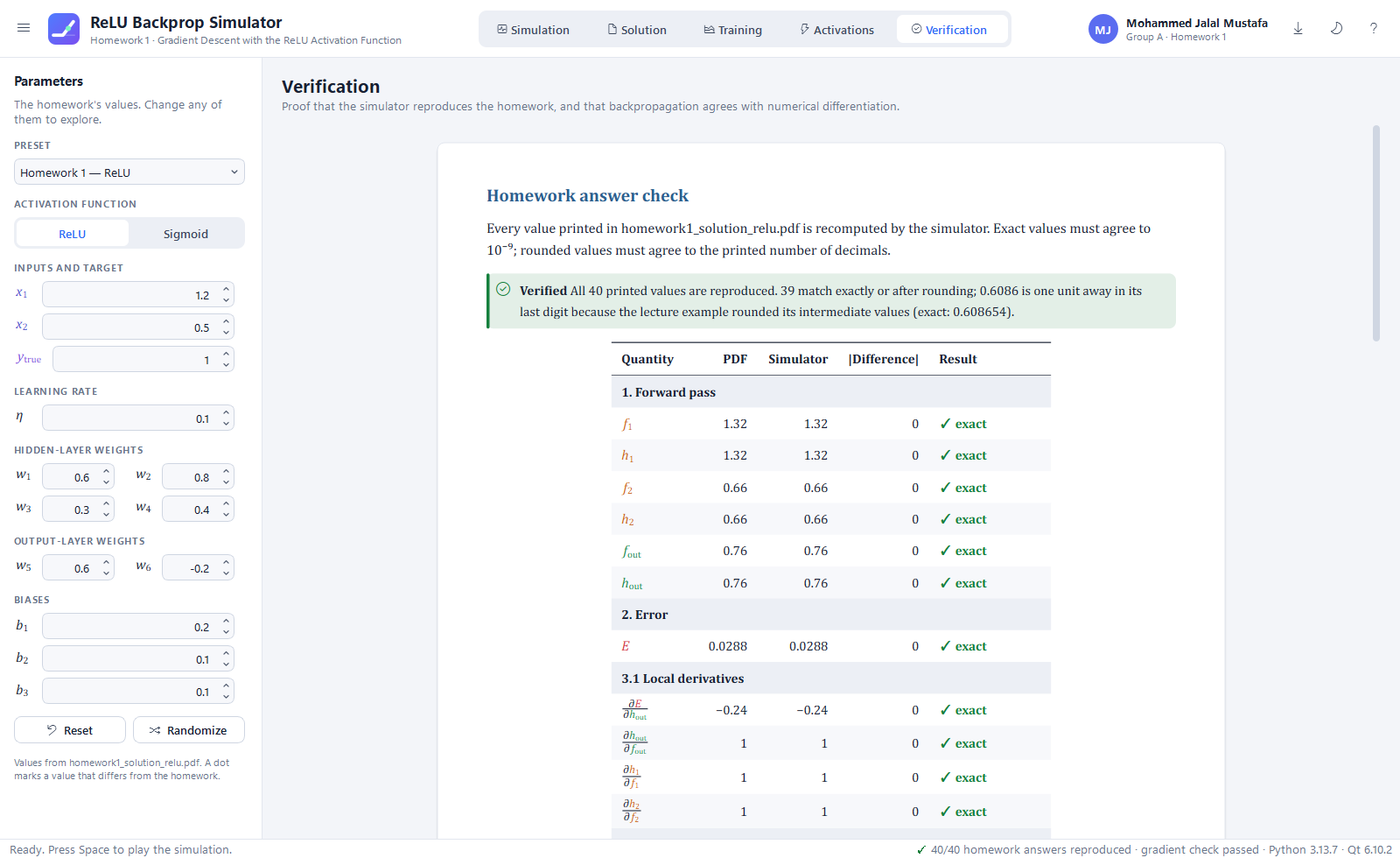
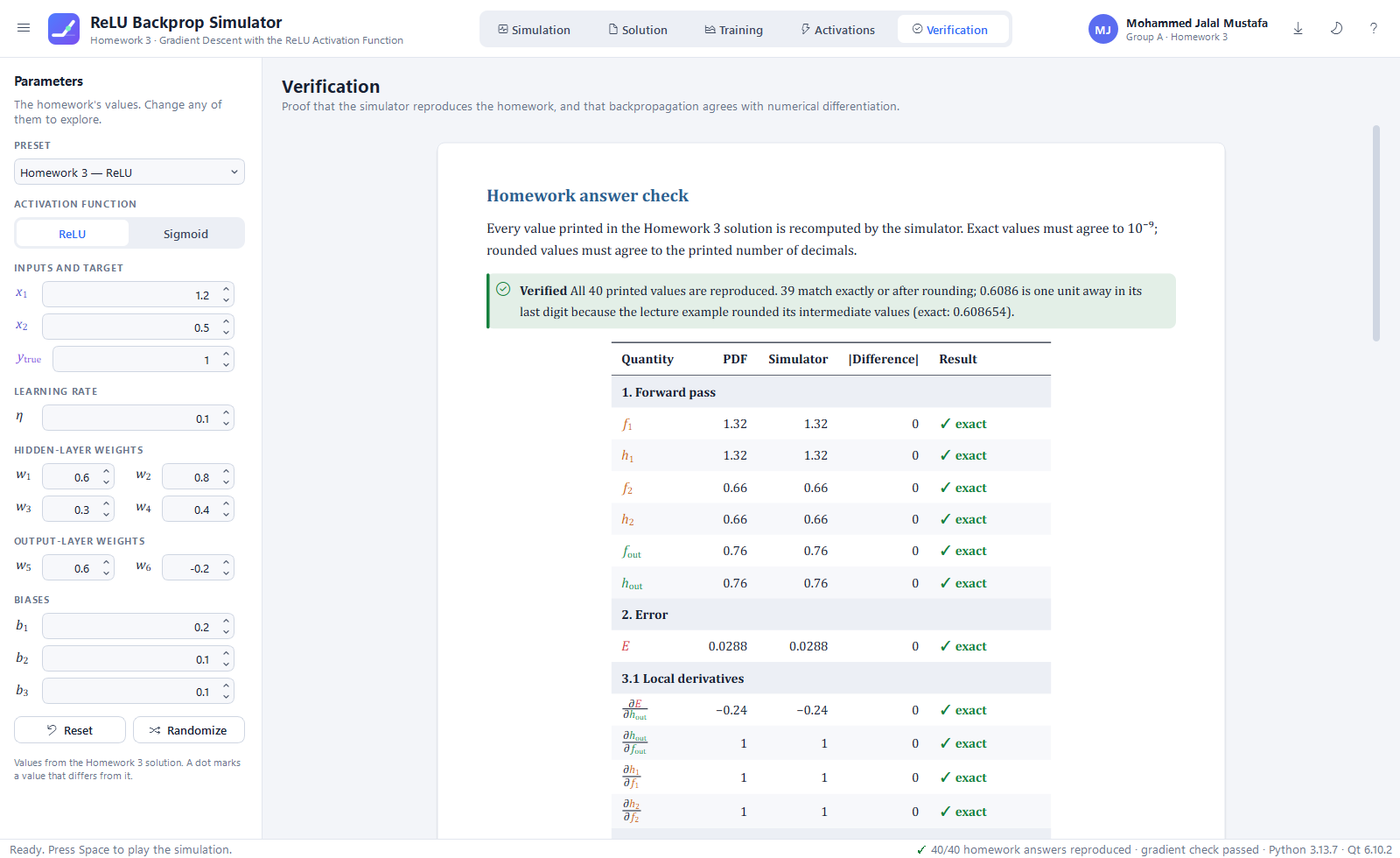
Correct the homework number: Homework 3
The app, the worked solution, the PDF/PNG/CSV exports, the README, the screenshots and the release notes now say Homework 3.

diff --git a/relu_sim/ui/main_window.py b/relu_sim/ui/main_window.py
@@ -74,7 +74,7 @@ class MainWindow(QMainWindow):
     def __init__(self, state: AppState):
         super().__init__()
         self.state = state
-        # Qt appends the application name: "Homework 1 · Mohammed Jalal Mustafa - ReLU Backprop Simulator"
+        # Qt appends the application name: "Homework 3 · Mohammed Jalal Mustafa - ReLU Backprop Simulator"
         self.setWindowTitle(f"{homework.TITLE} · {homework.STUDENT.name}")
         self.setWindowIcon(app_icon())
         self.setMinimumSize(1240, 760)
@@ -324,7 +324,7 @@ class MainWindow(QMainWindow):
         return path or None
 
     def export_pdf(self) -> None:
-        path = self._save_path("Export the worked solution", "Homework1_ReLU_Solution.pdf", "PDF document (*.pdf)")
+        path = self._save_path("Export the worked solution", "Homework3_ReLU_Solution.pdf", "PDF document (*.pdf)")
         if not path:
             return
         try:
@@ -338,7 +338,7 @@ class MainWindow(QMainWindow):
         frame = self.simulation.network.frame()
         if frame is None:
             return
-        path = self._save_path("Save the network diagram", "Homework1_ReLU_Network.png", "PNG image (*.png)")
+        path = self._save_path("Save the network diagram", "Homework3_ReLU_Network.png", "PNG image (*.png)")
         if not path:
             return
         try:
@@ -349,7 +349,7 @@ class MainWindow(QMainWindow):
         self.show_message(f"Saved the diagram to {path}")
 
     def export_csv(self) -> None:
-        path = self._save_path("Export the training data", "Homework1_ReLU_Training.csv", "CSV file (*.csv)")
+        path = self._save_path("Export the training data", "Homework3_ReLU_Training.csv", "CSV file (*.csv)")
         if not path:
             return
         try:

diff --git a/relu_sim/homework.py b/relu_sim/homework.py
@@ -1,6 +1,6 @@
 """The homework itself: the given values, the student and the printed answers.
 
-Everything here is copied from homework1_solution_relu.pdf so that the
+Everything here is copied from the Homework 3 solution (PDF) so that the
 simulator can reproduce and check every number of the solution.
 """
 
@@ -19,7 +19,7 @@ class Student:
 
 STUDENT = Student(name="Mohammed Jalal Mustafa", group="A")
 
-TITLE = "Homework 1"
+TITLE = "Homework 3"
 SUBTITLE = "Gradient Descent with the ReLU Activation Function"
 
 PARAMS = Params(w1=0.6, w2=0.8, w3=0.3, w4=0.4, w5=0.6, w6=-0.2, b1=0.2, b2=0.1, b3=0.1)
@@ -39,7 +39,7 @@ class Preset:
 
 
 PRESETS: tuple[Preset, ...] = (
-    Preset("homework", "Homework 1 — ReLU",
+    Preset("homework", "Homework 3 — ReLU",
            "The values given in the homework (default).", HOMEWORK),
     Preset("lecture", "Lecture example — Sigmoid",
            "The same network with the sigmoid activation, as in Lecture Example 1.", LECTURE),

diff --git a/relu_sim/content/report.py b/relu_sim/content/report.py
@@ -64,7 +64,7 @@ def verification_document(checks: list[AnswerCheck], gradients: list[GradientChe
     close = [c for c in checks if c.status == CLOSE]
     blocks: list[Block] = [
         Heading("Homework answer check"),
-        Paragraph(inline("Every value printed in homework1_solution_relu.pdf is recomputed by the simulator. Exact "
+        Paragraph(inline("Every value printed in the Homework 3 solution is recomputed by the simulator. Exact "
                          "values must agree to 10⁻⁹; rounded values must agree to the printed number of "
                          "decimals.")),
     ]

diff --git a/relu_sim/ui/widgets/parameter_panel.py b/relu_sim/ui/widgets/parameter_panel.py
@@ -183,7 +183,7 @@ class ParameterPanel(QWidget):
             buttons.addWidget(button)
         layout.addLayout(buttons)
         layout.addSpacing(6)
-        note = QLabel("Values from homework1_solution_relu.pdf. A dot marks a value that differs from the homework.")
+        note = QLabel("Values from the Homework 3 solution. A dot marks a value that differs from it.")
         note.setObjectName("StatNote")
         note.setWordWrap(True)
         layout.addWidget(note)

diff --git a/relu_sim/content/solution.py b/relu_sim/content/solution.py
@@ -1,4 +1,4 @@
-"""The worked solution of Homework 1 (sections 1-6 of the PDF) for any configuration.
+"""The worked solution of Homework 3 (sections 1-6 of the PDF) for any configuration.
 
 With the homework's values the document reproduces the PDF; with other
 values (or the sigmoid) every number and every sentence that depends on

diff --git a/relu_sim/__init__.py b/relu_sim/__init__.py
@@ -1,6 +1,6 @@
 """ReLU Backpropagation Simulator.
 
-An interactive simulation of Homework 1, "Gradient Descent with the ReLU
+An interactive simulation of Homework 3, "Gradient Descent with the ReLU
 Activation Function", by Mohammed Jalal Mustafa (Group A).
 
 Package layout

diff --git a/main.py b/main.py
@@ -1,4 +1,4 @@
-"""ReLU Backpropagation Simulator - Homework 1 (Mohammed Jalal Mustafa, Group A).
+"""ReLU Backpropagation Simulator - Homework 3 (Mohammed Jalal Mustafa, Group A).
 
 Start it by double-clicking run_simulation.bat, or from a terminal:
 

diff --git a/README.md b/README.md
@@ -4,7 +4,7 @@
 [![Latest release](https://img.shields.io/github/v/release/MohammedJMustafa/relu-backprop-simulator)](https://github.com/MohammedJMustafa/relu-backprop-simulator/releases/latest)
 [![License: MIT](https://img.shields.io/badge/License-MIT-blue.svg)](LICENSE)
 
-**Homework 1: Gradient Descent with the ReLU Activation Function**
+**Homework 3: Gradient Descent with the ReLU Activation Function**
 Mohammed Jalal Mustafa · Group A
 
 An interactive desktop simulation of a 2‑2‑1 neural network that uses ReLU. It animates the forward pass,
